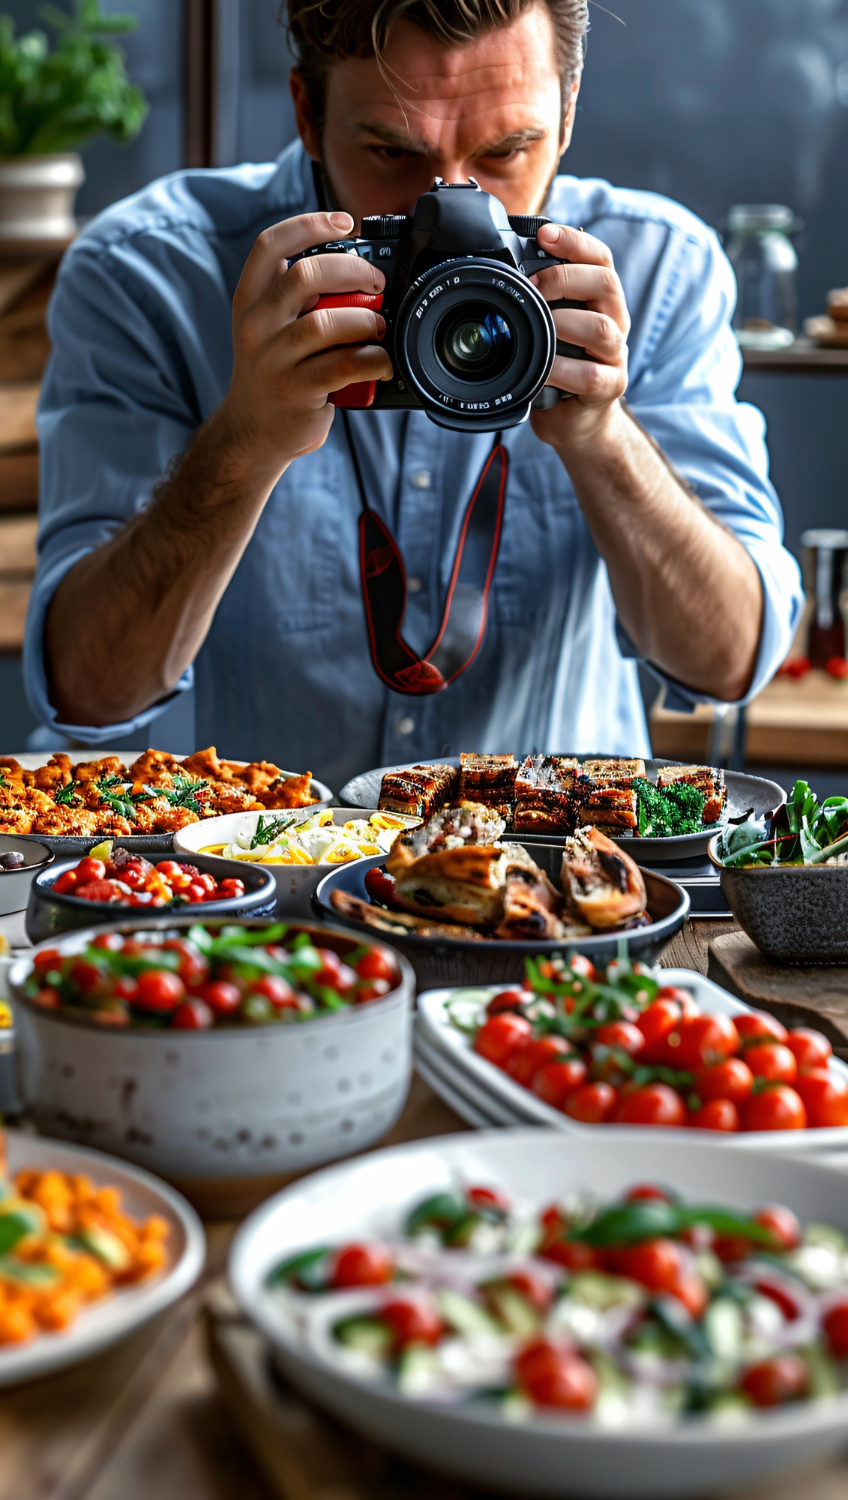
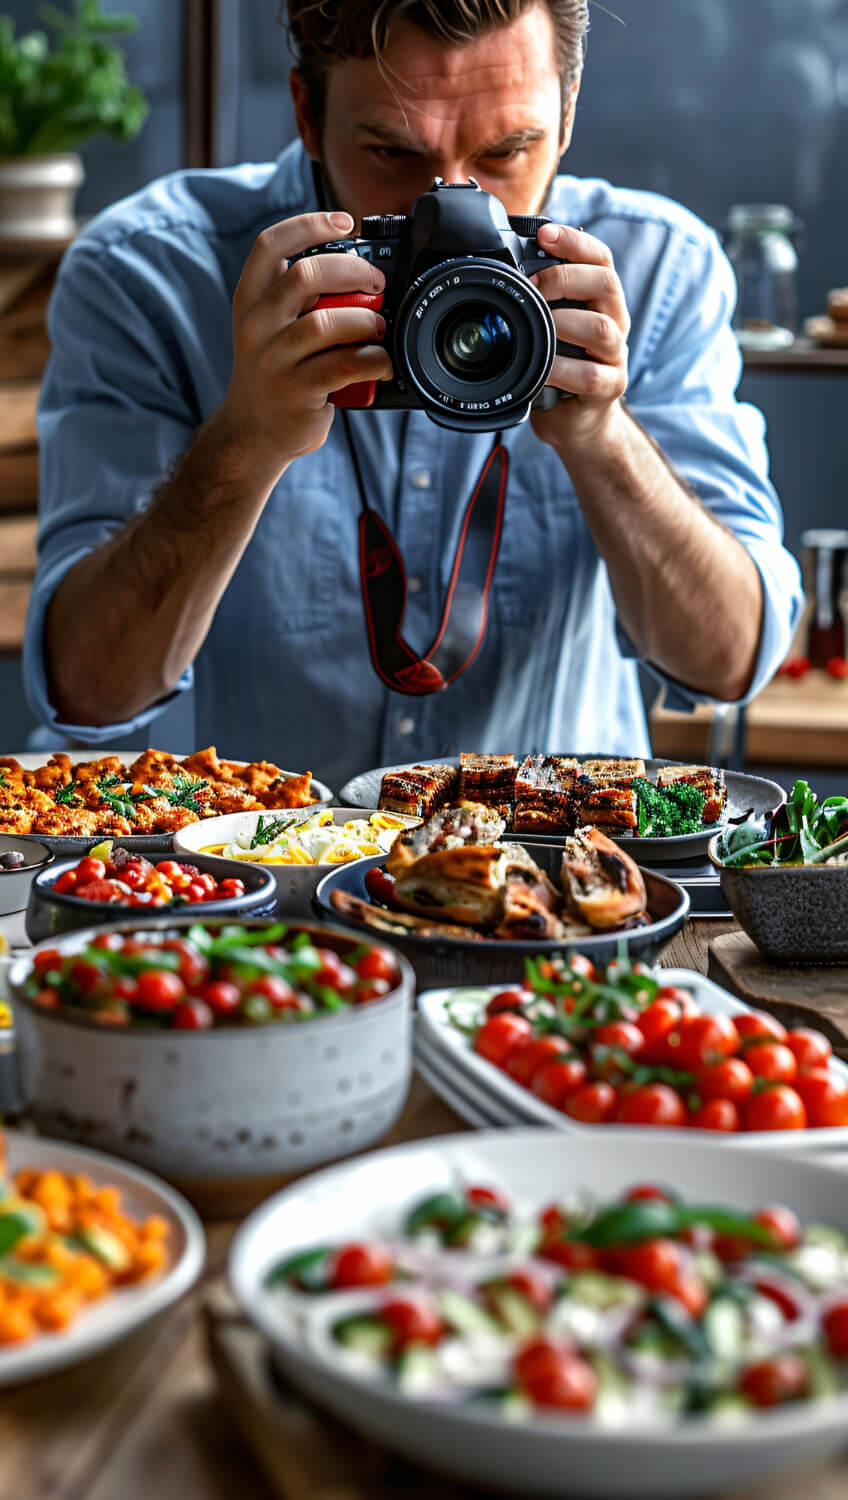
compress images

diff --git a/resources/views/setting/index.blade.php b/resources/views/setting/index.blade.php
@@ -8,7 +8,7 @@
     <div class="row">
         <div class="col-md-4 my-auto">
             <div class="card animate-on-scroll slide-left">
-                <img src="{{ asset('assets/images/insurance.png') }}" alt="Insurance" class="groups-img">
+                <img src="{{ asset('assets/images/insurance.jpg') }}" alt="Insurance" class="groups-img">
             </div>
         </div>
         <div class="col-md-8 animate-on-scroll slide-right">
@@ -91,7 +91,7 @@
     <div class="row">
         <div class="col-md-4 my-auto animate-on-scroll slide-left delay-200">
             <div class="card">
-                <img src="{{ asset('assets/images/groups.png') }}" alt="Groups" class="groups-img">
+                <img src="{{ asset('assets/images/groups.jpg') }}" alt="Groups" class="groups-img">
             </div>
         </div>
         <div class="col-md-8 animate-on-scroll slide-right delay-200">
@@ -158,7 +158,7 @@
     <div class="row">
         <div class="col-md-4 my-auto animate-on-scroll slide-left delay-200">
             <div class="card">
-                <img src="{{ asset('assets/images/backup.png') }}" alt="Backup" class="groups-img">
+                <img src="{{ asset('assets/images/backup.jpg') }}" alt="Backup" class="groups-img">
             </div>
         </div>
         <div class="col-md-8 animate-on-scroll slide-right delay-200">
